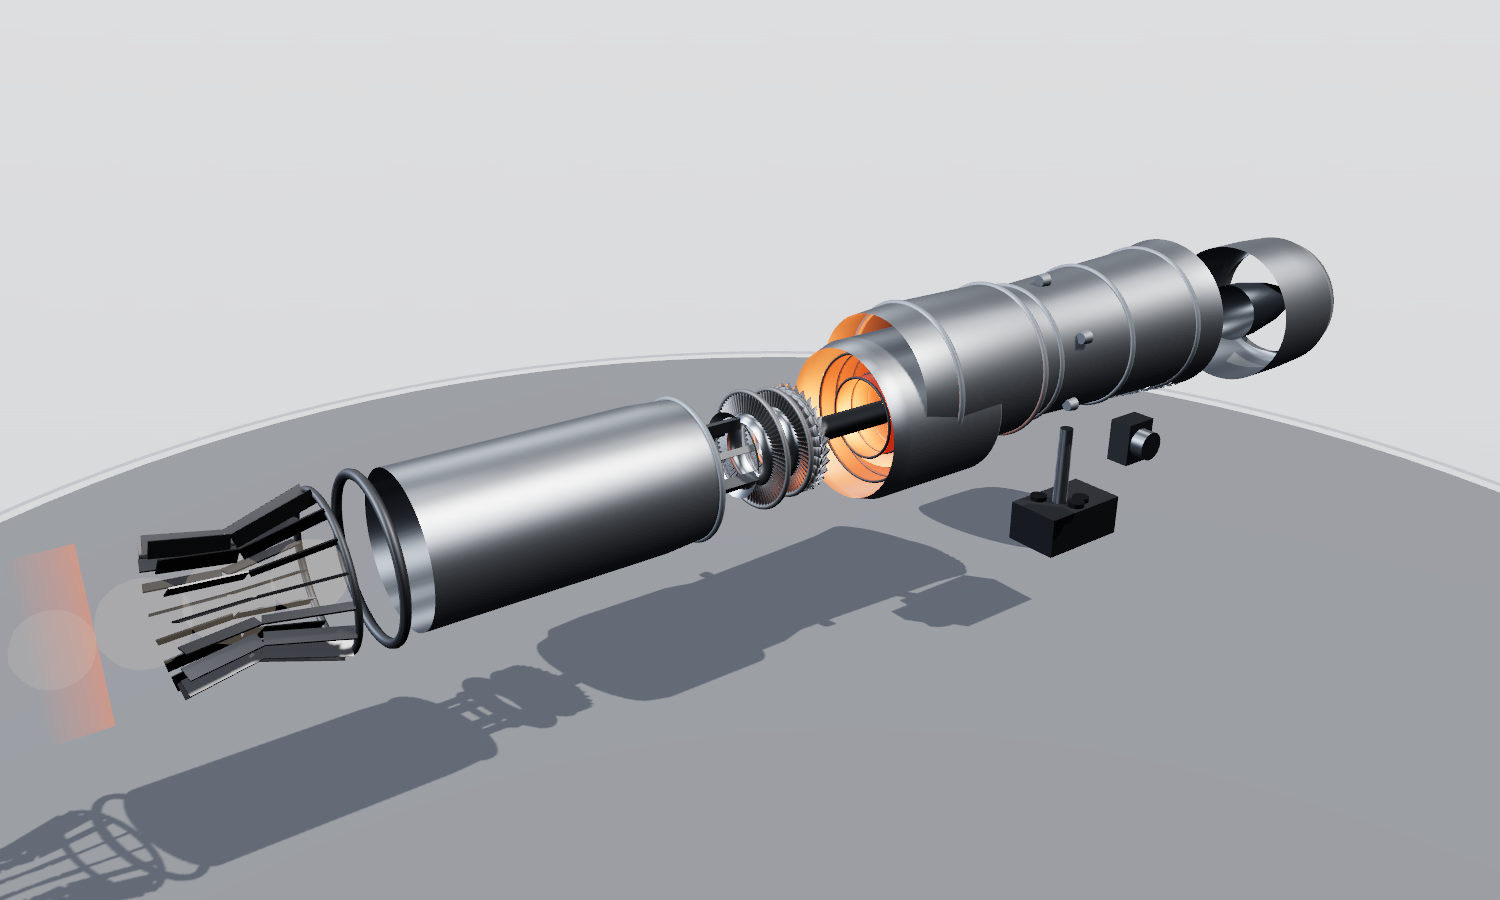
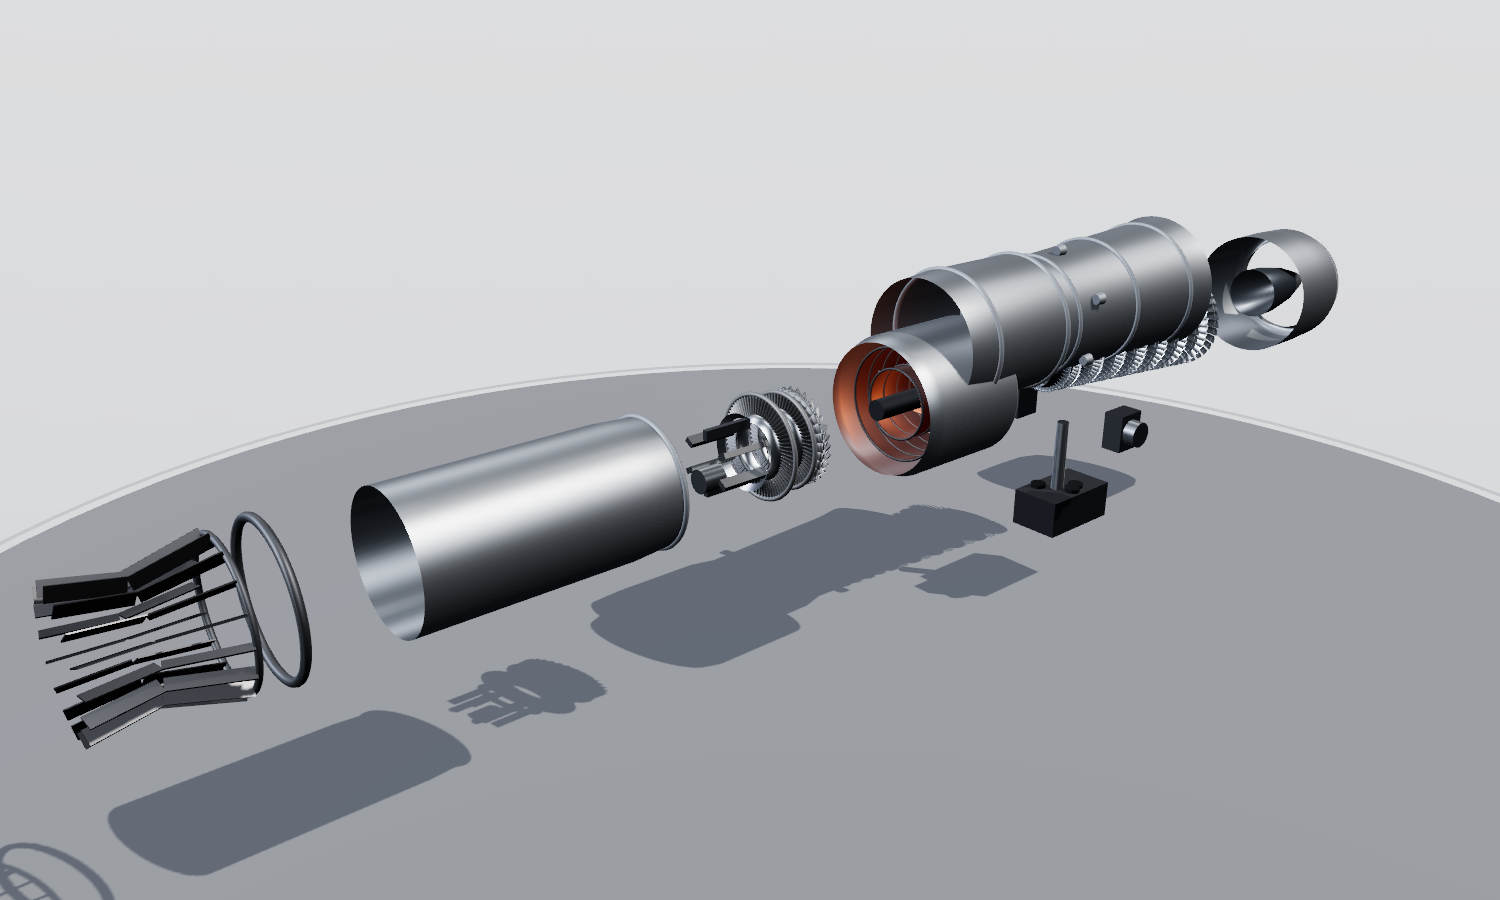
爆炸视图优化:加大模块分离量,机匣上掀,尾焰跟随喷口

diff --git a/index.html b/index.html
@@ -473,16 +473,16 @@ function module(key,off,base=[0,0,0]){
   engineRoot.add(g);MODS[key]=g;return g;
 }
 
-const gInlet  = module('inlet',[0,0,-0.9]);
-const gComp   = module('compressor',[0,0,-0.45]);
-const gCase   = module('casing',[0,0.12,-0.3]);
-const gComb   = module('combustor',[0,0,0]);
-const gTurb   = module('turbine',[0,0,0.35]);
-const gAB     = module('ab',[0,0,0.6]);
-const gNozzle = module('nozzle',[0,0,0.85]);
-const gShaft  = module('shaft',[0,-0.5,-0.2]);
-const gGear   = module('gearbox',[0,-0.5,-0.35]);
-const gMounts = module('mounts',[0,-0.35,0.4]);
+const gInlet  = module('inlet',[0,0,-1.7]);
+const gComp   = module('compressor',[0,0,-1.0]);
+const gCase   = module('casing',[0,0.28,-0.55]);
+const gComb   = module('combustor',[0,0,-0.15]);
+const gTurb   = module('turbine',[0,0,0.5]);
+const gAB     = module('ab',[0,0,1.05]);
+const gNozzle = module('nozzle',[0,0,1.65]);
+const gShaft  = module('shaft',[0,-0.55,-0.35]);
+const gGear   = module('gearbox',[0,-0.55,-0.5]);
+const gMounts = module('mounts',[0,-0.4,0.25]);
 
 /* ---------- 材质 ---------- */
 const mMil   = M('casing',Object.assign({},PAL.mil),{shell:true});     // 军灰机匣(壳)
@@ -1231,7 +1231,7 @@ window._plumeMats=[];
     window._plumeMats.push(m);
     const p=new THREE.Mesh(cylZ(r1,r2,len,32,true),m);
     p.position.z=EXITZ+len/2-0.15;
-    engineRoot.add(p);
+    gNozzle.add(p);
   });
   // 激波菱形(开加力)
   for(let i=0;i<8;i++){
@@ -1239,7 +1239,7 @@ window._plumeMats=[];
       blending:THREE.NormalBlending,depthWrite:false,toneMapped:false});
     m.clippingPlanes=clipPlanes;
     const dm=new THREE.Mesh(new THREE.SphereGeometry(1,12,10),m);
-    dm.visible=true; engineRoot.add(dm);
+    dm.visible=true; gNozzle.add(dm);
     diamonds.push(dm);
   }
 }
